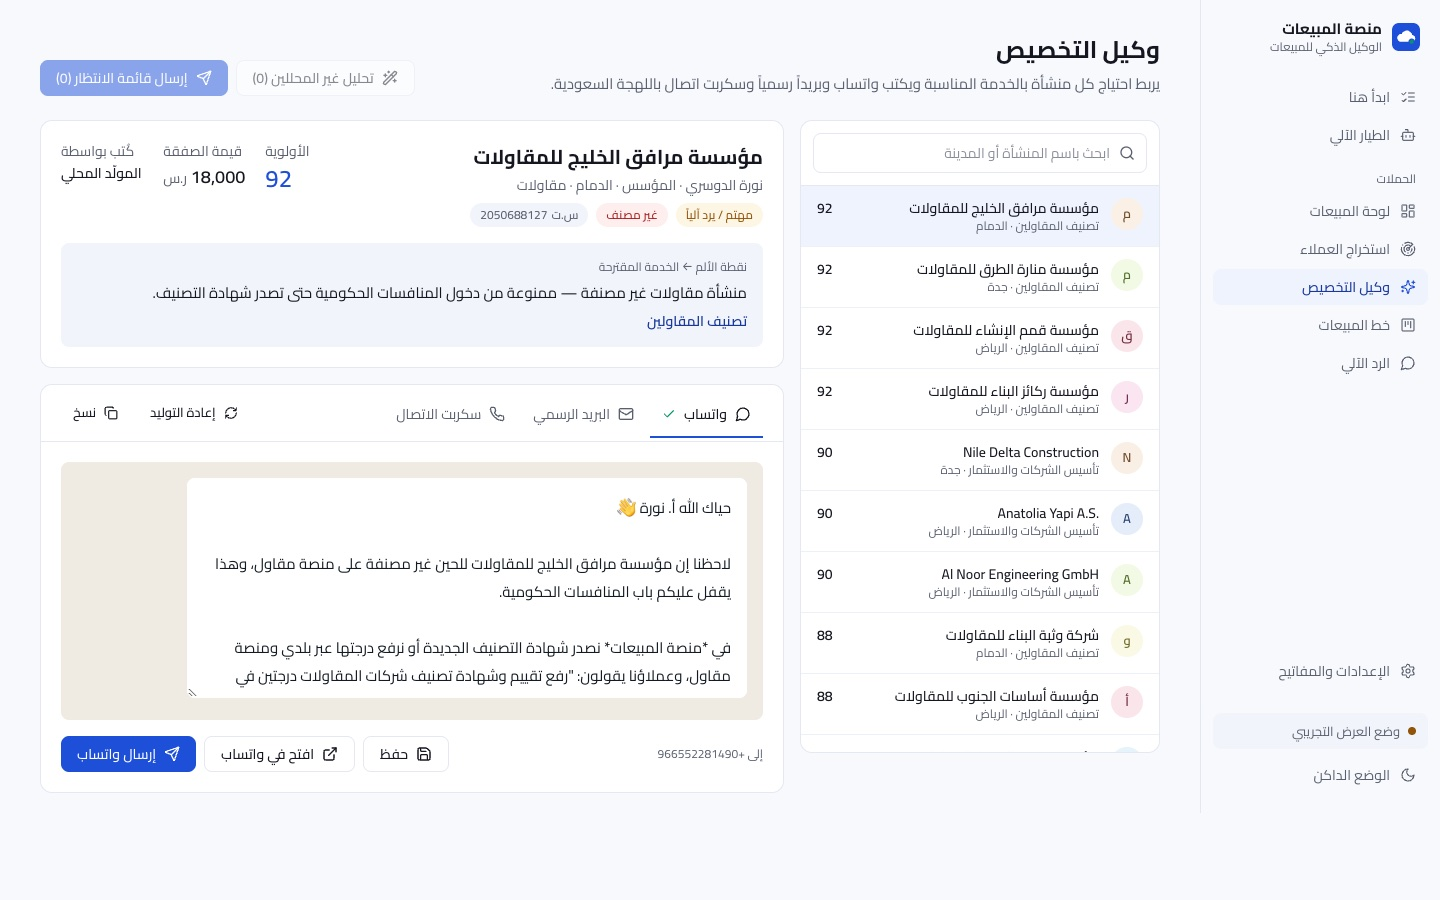
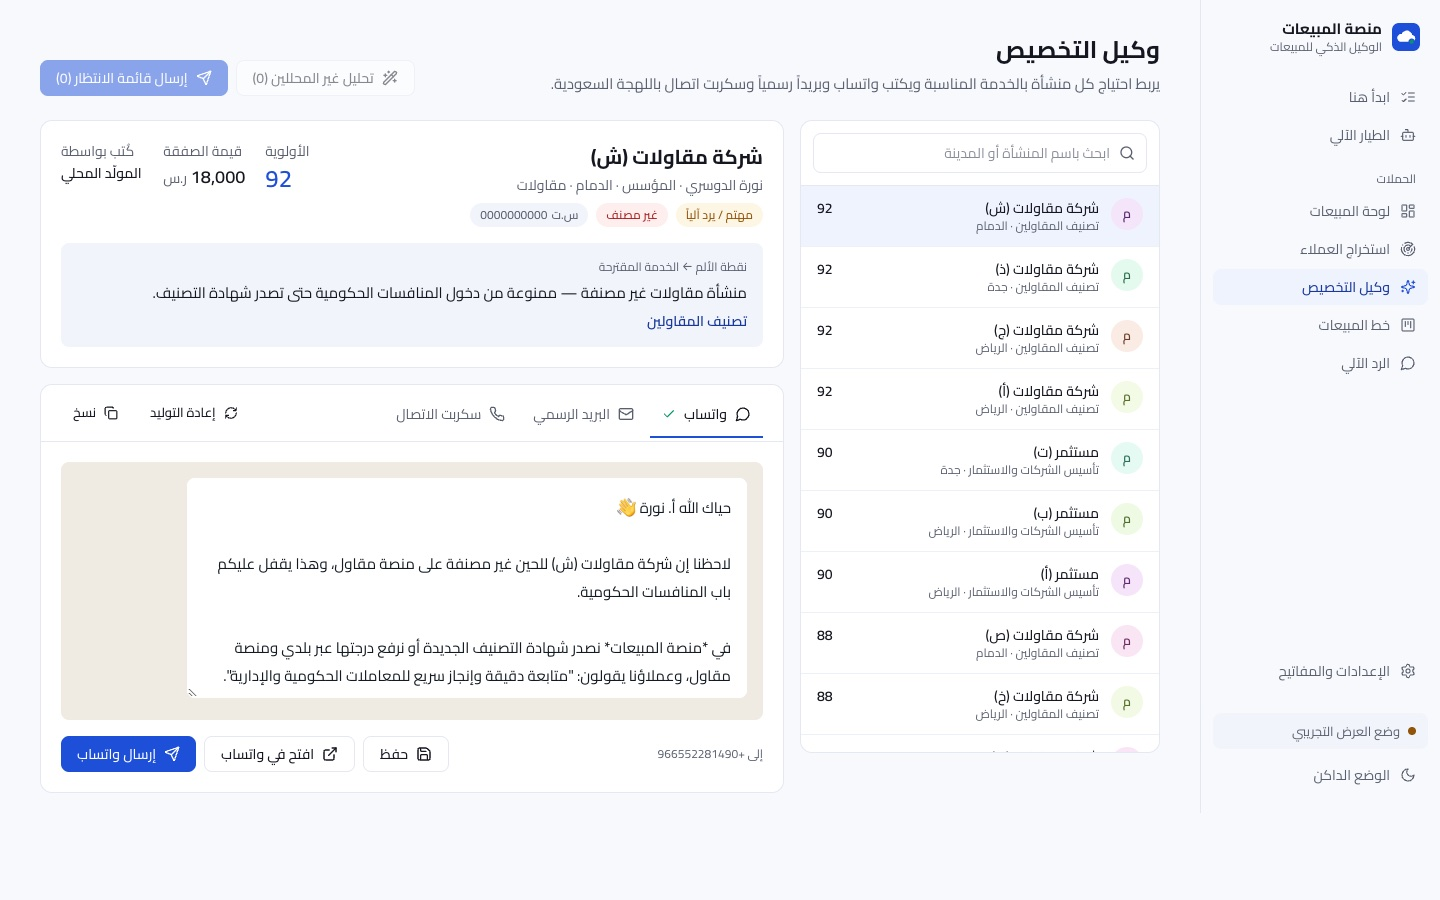
Hide company names, add entrance and scroll motion

diff --git a/index.html b/index.html
@@ -98,25 +98,40 @@ figcaption{font-size:15px;color:var(--quiet);margin-top:12px;max-width:640px}
 .reach p{color:var(--ink2);font-size:20px}
 footer{border-top:1px solid var(--rule);padding-block:24px 40px;color:var(--quiet);font-size:15px}
 @media (prefers-reduced-motion:reduce){*{transition:none!important}}
+
+/* motion, after the MotionSites craft rules: one entrance sequence on load, one scroll moment */
+@keyframes rise{from{opacity:0;transform:translateY(24px);filter:blur(10px)}}
+header.top[data-enter]{animation:rise .8s cubic-bezier(.16,1,.3,1) both}
+.hello[data-enter] h1{animation:rise .9s cubic-bezier(.16,1,.3,1) .12s both}
+.hello[data-enter] p{animation:rise .9s cubic-bezier(.16,1,.3,1) .26s both}
+.stage{perspective:1600px}
+.stage .tilt{transform-origin:50% 0;animation:rise 1s cubic-bezier(.16,1,.3,1) .42s both}
+@supports (animation-timeline:view()){
+  @keyframes flatten{from{transform:rotateX(16deg) scale(.94);box-shadow:0 40px 60px -30px rgba(0,0,0,.25)}to{transform:none;box-shadow:0 0 0 rgba(0,0,0,0)}}
+  .stage .tilt{animation:flatten linear both;animation-timeline:view();animation-range:entry 0% cover 45%}
+}
+.reel img{transition:transform .5s cubic-bezier(.16,1,.3,1)}
+.reel figure:hover img{transform:translateY(-4px)}
+@media (prefers-reduced-motion:reduce){header.top[data-enter],.hello[data-enter] h1,.hello[data-enter] p,.stage .tilt{animation:none!important;transform:none!important;filter:none!important;opacity:1!important}}
 </style>
 </head>
 <body>
 <div class="page">
-  <header class="top">
+  <header class="top" data-enter>
     <b>Abdullah Alarifi</b>
     <nav><a href="#work">Work</a><a href="#cv">CV</a><a href="#contact">Contact</a></nav>
   </header>
 
-  <section class="hello">
+  <section class="hello" data-enter>
     <h1>I work in HR in Riyadh, and I build the tools my teams end up running on.</h1>
     <p>Three years between HR operations and a project-management office taught me where the hours go: reading CVs one by one, chasing reports from site to site, writing the same message over and over. I don't code the traditional way. I design the process, build it with Claude Code and AI agents, and a person still makes the call.</p>
   </section>
 
   <main id="work">
     <article class="work" style="padding-top:0">
-      <figure>
-        <img src="img/sales-dashboard.jpg" alt="Sales dashboard of the B2B platform, in Arabic, with demo data" width="1440" height="900">
-        <figcaption>The sales dashboard. The platform runs in Arabic; the companies on screen are the demo data that ships with it.</figcaption>
+      <figure class="stage">
+        <img class="tilt" src="img/sales-dashboard.jpg" alt="Sales dashboard of the B2B platform, in Arabic, with demo data" width="1440" height="900">
+        <figcaption>The sales dashboard. The platform runs in Arabic; company names are replaced with placeholders.</figcaption>
       </figure>
       <div class="text" style="margin-top:56px">
         <h2>A sales platform that prospects on its own</h2>
@@ -164,11 +179,8 @@ footer{border-top:1px solid var(--rule);padding-block:24px 40px;color:var(--quie
       <div class="text">
         <h2>Websites for small companies</h2>
         <p class="when">2026</p>
-        <p>Bilingual sites, Arabic first with a full right-to-left layout, each with a short brand guide for logo, colour, type and tone. This is the one for a freight company in Riyadh.</p>
+        <p>Bilingual sites, Arabic first with a full right-to-left layout, each with a short brand guide for logo, colour, type and tone. So far: a freight company in Riyadh and a small creative studio.</p>
       </div>
-      <figure>
-        <img src="img/regalex.jpg" alt="Homepage of a bilingual freight-company website" width="1440" height="900" loading="lazy">
-      </figure>
     </article>
   </main>
 
